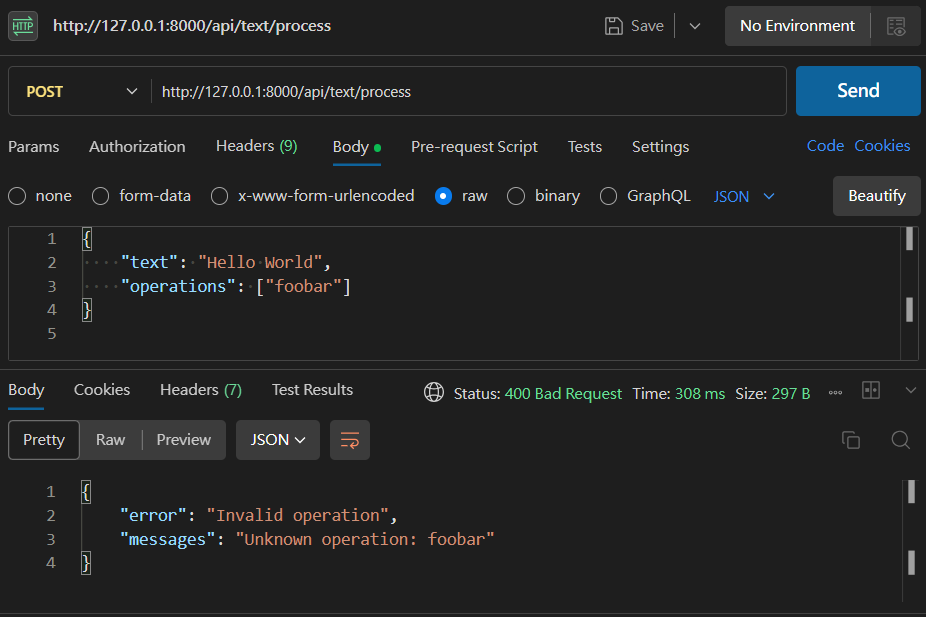
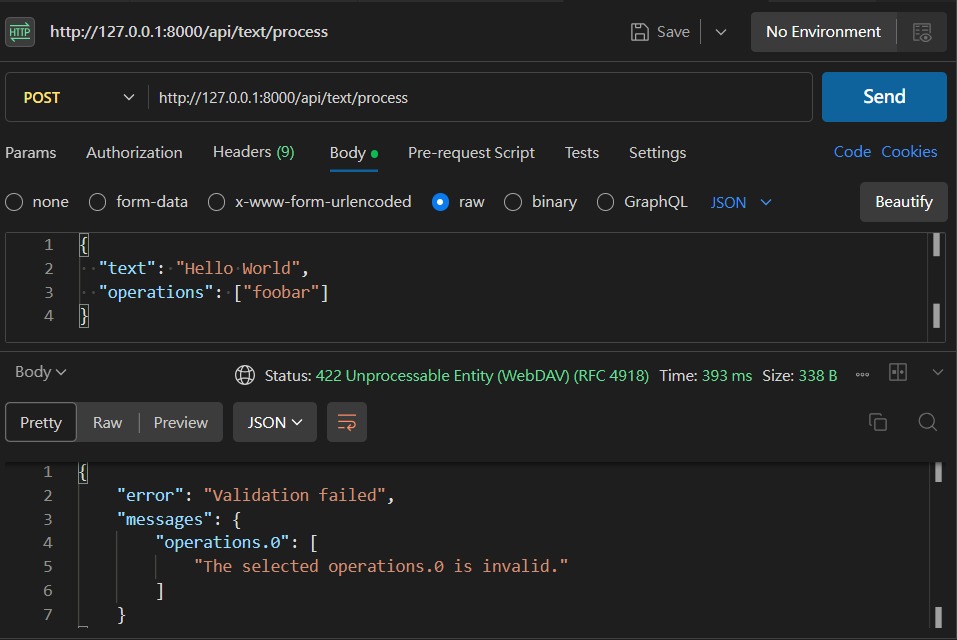
Update controller

diff --git a/app/Http/Controllers/TextController.php b/app/Http/Controllers/TextController.php
@@ -6,6 +6,7 @@ use App\Services\TextService;
 use Exception;
 use Illuminate\Http\Request;
 use Illuminate\Support\Facades\Log;
+use Illuminate\Validation\ValidationException;
 
 class TextController extends Controller
 {
@@ -20,7 +21,8 @@ class TextController extends Controller
         try{
             $validated = $request->validate([
                 'text' => 'required|string',
-                'operations' => 'required|array'
+                'operations' => 'required|array',
+                'operations.*' => 'required|string|in:reverse,uppercase,lowercase,remove_spaces'
             ]);
 
             $originalText = $validated['text'];
@@ -32,19 +34,13 @@ class TextController extends Controller
                 'original_text' => $originalText,
                 'processed_text' => $processedText
             ]);
-        } catch (\Illuminate\Validation\ValidationException $e) {
+        } catch (ValidationException $e) {
             return response()->json([
                 'error' => 'Validation failed',
-                'messages' => $e->getMessage()
+                'messages' => $e->errors()
             ], 422);
 
-        } catch (\InvalidArgumentException $e) {
-            return response()->json([
-                'error' => 'Invalid operation',
-                'messages' => $e->getMessage()
-            ], 400);
-            
-        } catch (Exception $e) {
+        }  catch (Exception $e) {
             Log::error('Text Processing Error: ' . $e->getMessage());
 
             return response()->json([

diff --git a/app/Services/TextService.php b/app/Services/TextService.php
@@ -11,7 +11,7 @@ class TextService
         $result = $text;
 
         foreach ($operations as $operation) {
-            switch(strtolower($operation)) {
+            switch($operation) {
                 case 'reverse':
                     $result = $this->reverse($result);
                     break;

diff --git a/README.md b/README.md
@@ -51,7 +51,7 @@ Content-Type: application/json
 ```json
 {
     "original_text": "Hello World",
-    "processed_text": "DLROW OLLEH"
+    "processed_text": "DLROWOLLEH"
 }
 ```
 
@@ -59,35 +59,61 @@ Content-Type: application/json
 
 ##  錯誤處理
 
+
 ### ➤ 1. 驗證失敗（422 Unprocessable Entity）
-![Postman 測試結果](images/validationFailed.PNG)
+當 `text` 或 `operations` 欄位缺失、格式錯誤，或 `operations` 包含無效操作時，會回傳此錯誤。
+
+
+`operations`  欄位缺失：  
+![驗證失敗](images/fieldMissing.PNG)
 ```json
 {
     "error": "Validation failed",
-    "messages": "The operations field is required."
+    "messages": {
+        "operations": [
+            "The operations field is required."
+        ]
+    }
 }
 ```
-- 當 `text` 或 `operations` 缺失、格式錯誤，會出現此錯誤。
 
-### ➤ 2. 無效操作（400 Bad Request）
-![Postman 測試結果](images/invalidOperation.PNG)
+`operations` 包含無效操作：  
+![驗證失敗](images/invalidOperation.PNG)
+
 ```json
 {
-    "error": "Invalid operation",
-    "messages": "Unknown operation: foobar"
+    "error": "Validation failed",
+    "messages": {
+        "operations.0": [
+            "The selected operations.0 is invalid."
+        ]
+    }
 }
 ```
-- 若 `operations` 中有不支援的操作指令，將回傳此錯誤
-### ➤ 3. 系統錯誤（500 Internal Server Error）
+
+ 驗證規則說明：  
+- `text` 欄位必填，必須為字串  
+- `operations` 必須是陣列  
+- `operations.*` 必須是 `reverse`、`uppercase`、`lowercase`、`remove_spaces` 其中之一  
+- 任一條件未符合 ➜ 422 錯誤
+
+---
+
+### ➤ 2. 系統錯誤（500 Internal Server Error）
+伺服器發生不可預期錯誤時，回傳 500 錯誤。
+
+
 ```json
 {
     "error": "Server Error",
     "messages": "Something went wrong"
 }
 ```
-- 伺服器發生不可預期錯誤
-- 可查看 logs 了解錯誤原因
----
+
+ 通常原因  
+- 非預期例外（Exception）  
+- 可以查看 `storage/logs/laravel.log` 取得詳細錯誤資訊  
+
 
 ##  專案架構
 ```
@@ -105,7 +131,7 @@ routes/
 |--------------------|--------------------|
 | **text 太長**       | 驗證規則加 `max:10000`限制最大長度 10,000 字元，超過時驗證失敗 |
 | **operations 重複指令** | 使用`array_unique`去掉重複 |
-| **無效操作指令**     | 回傳 400 錯誤，並列出未知操作名稱 |
+| **無效操作指令**     | 回傳 422 錯誤 |
 | **特殊字元 / emoji** | 修改reverse方法 |
 | **操作順序影響**     | 操作會依照傳入 `operations` 的順序依序處理 |
 
